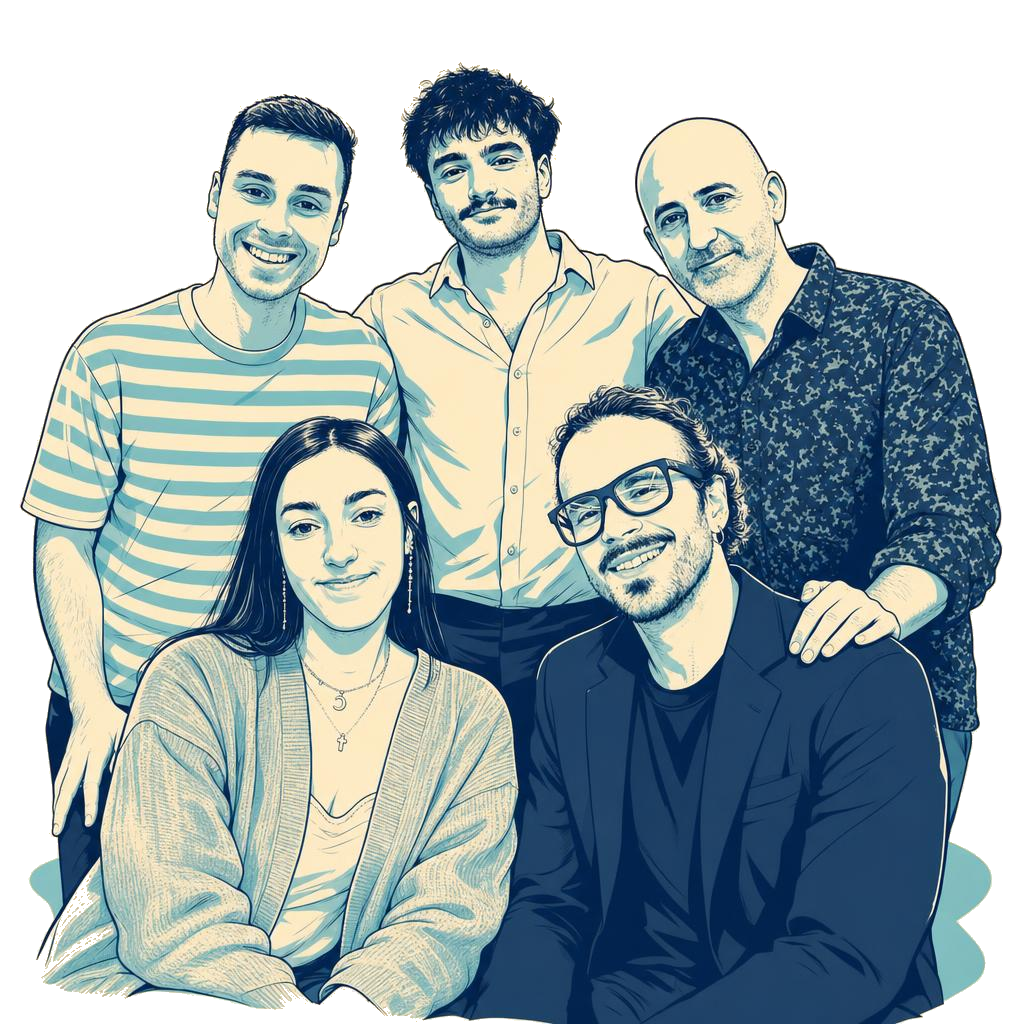
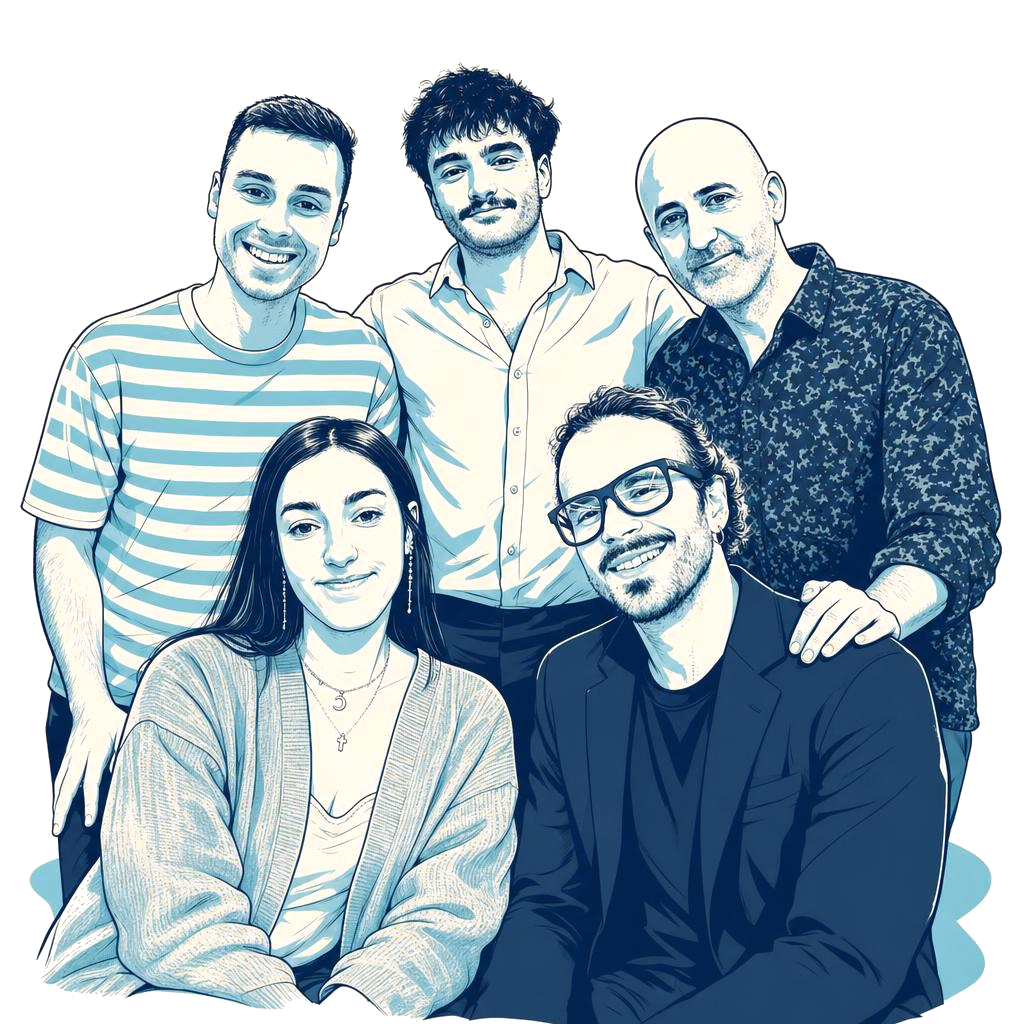
Radio sin tarjeta y más pequeña en móvil; equipo sin tinte amarillo
RADIO. En móvil se comía media pantalla y llevaba una tarjeta blanca alrededor
que no aportaba nada. Fuera la tarjeta: la radio va suelta sobre la página,
como el resto de dibujos de la casa. El botón de cerrar se pega a su esquina en
vez de vivir en una cabecera propia. Ancho responsive: 10,5rem en móvil y 13rem
a partir de sm — en un iPhone pasa de ocupar ~60% a 46%, y sin caja pesa mucho
menos visualmente.

EQUIPO. La ilustración salió con tinte amarillo (las luces estaban en
R241/G231/B199: el azul 42 puntos por debajo del rojo). Corregido con balance
de blancos llevando ese gris a la crema neutra del sitio (251,250,246). La
ganancia se aplica ponderada por luminosidad elevada a 1.5, así solo se
neutralizan las luces y los navys y teales oscuros —que estaban bien— no se
tocan. Comprobado: el azul sube de 198 a 237 y ya casi iguala al rojo.

Verificado en navegador a 390 y 1280: sin overflow ni errores de consola.

Claude-Session: https://claude.ai/code/session_013nxPdVxofQcXxYNMZ4biFo

diff --git a/components/player/RadioBonito.tsx b/components/player/RadioBonito.tsx
@@ -34,28 +34,24 @@ export function RadioBonito({ onClose }: { onClose: () => void }) {
   const vivo = playing && !tuning;
 
   return (
+    /* Sin tarjeta: la radio va suelta sobre la página, como los demás dibujos
+       de la casa. Más estrecha en móvil, donde antes se comía media pantalla. */
     <div
-      className="w-[14.5rem] rounded-2xl border p-2.5 shadow-[0_18px_50px_rgba(20,40,60,0.28)]"
-      style={{ backgroundColor: CREMA, borderColor: "rgba(20,40,60,0.12)" }}
+      className="relative w-[10.5rem] sm:w-[13rem]"
       role="region"
       aria-label="Radio Bonito"
     >
-      {/* Cabecera */}
-      <div className="mb-1.5 flex items-center justify-between px-1">
-        <p className="font-mono text-[0.58rem] uppercase tracking-[0.22em]" style={{ color: "rgba(20,40,60,0.45)" }}>
-          Radio Bonito
-        </p>
-        <button
-          onClick={onClose}
-          aria-label="Cerrar la radio"
-          className="grid h-5 w-5 place-items-center rounded-full transition-opacity hover:opacity-60"
-          style={{ color: NAVY }}
-        >
-          <svg width="10" height="10" viewBox="0 0 24 24" fill="none" stroke="currentColor" strokeWidth="3.5" aria-hidden>
-            <path d="M5 5l14 14M19 5L5 19" strokeLinecap="round" />
-          </svg>
-        </button>
-      </div>
+      {/* Cerrar: pegado a la esquina de la propia radio, sin cabecera. */}
+      <button
+        onClick={onClose}
+        aria-label="Cerrar la radio"
+        className="absolute -top-1 right-0 z-10 grid h-6 w-6 place-items-center rounded-full transition-opacity hover:opacity-60"
+        style={{ color: NAVY, backgroundColor: "rgba(251,250,246,0.9)" }}
+      >
+        <svg width="10" height="10" viewBox="0 0 24 24" fill="none" stroke="currentColor" strokeWidth="3.5" aria-hidden>
+          <path d="M5 5l14 14M19 5L5 19" strokeLinecap="round" />
+        </svg>
+      </button>
 
       {/* ── La radio dibujada ── */}
       <svg viewBox="0 0 400 290" className="w-full" role="img" aria-label="Radio de válvulas">
@@ -151,18 +147,18 @@ export function RadioBonito({ onClose }: { onClose: () => void }) {
       </svg>
 
       {/* ── Qué suena ── */}
-      <div className="mt-1 flex min-h-[2.5rem] items-center px-1">
+      <div className="mt-0.5 flex min-h-[2.1rem] items-center">
         {tuning ? (
-          <p className="font-mono text-[0.65rem] uppercase tracking-[0.2em]" style={{ color: "rgba(20,40,60,0.5)" }}>
+          <p className="font-mono text-[0.6rem] uppercase tracking-[0.2em]" style={{ color: "rgba(20,40,60,0.5)" }}>
             sintonizando…
           </p>
         ) : (
           <div className="min-w-0">
-            <p className="truncate font-round text-sm font-bold leading-tight" style={{ color: NAVY }}>
+            <p className="truncate font-round text-xs font-bold leading-tight sm:text-sm" style={{ color: NAVY }}>
               {current?.title}
             </p>
             {current?.artist && (
-              <p className="truncate text-xs" style={{ color: "rgba(20,40,60,0.55)" }}>
+              <p className="truncate text-[0.65rem] sm:text-xs" style={{ color: "rgba(20,40,60,0.55)" }}>
                 {current.artist}
               </p>
             )}
